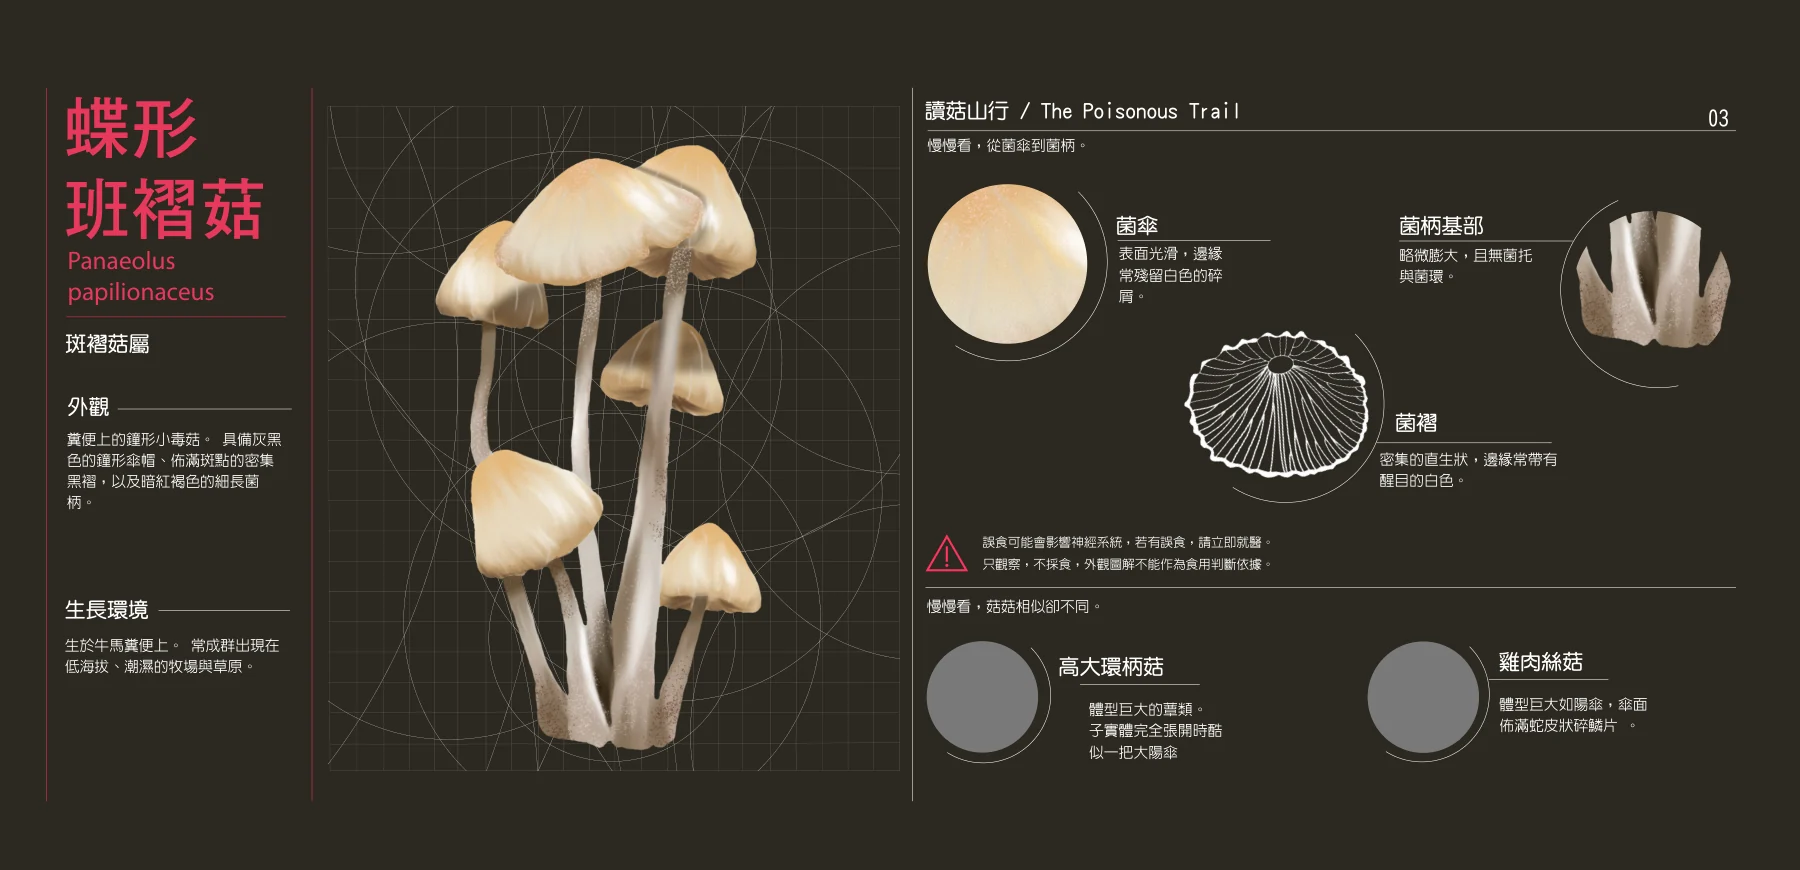
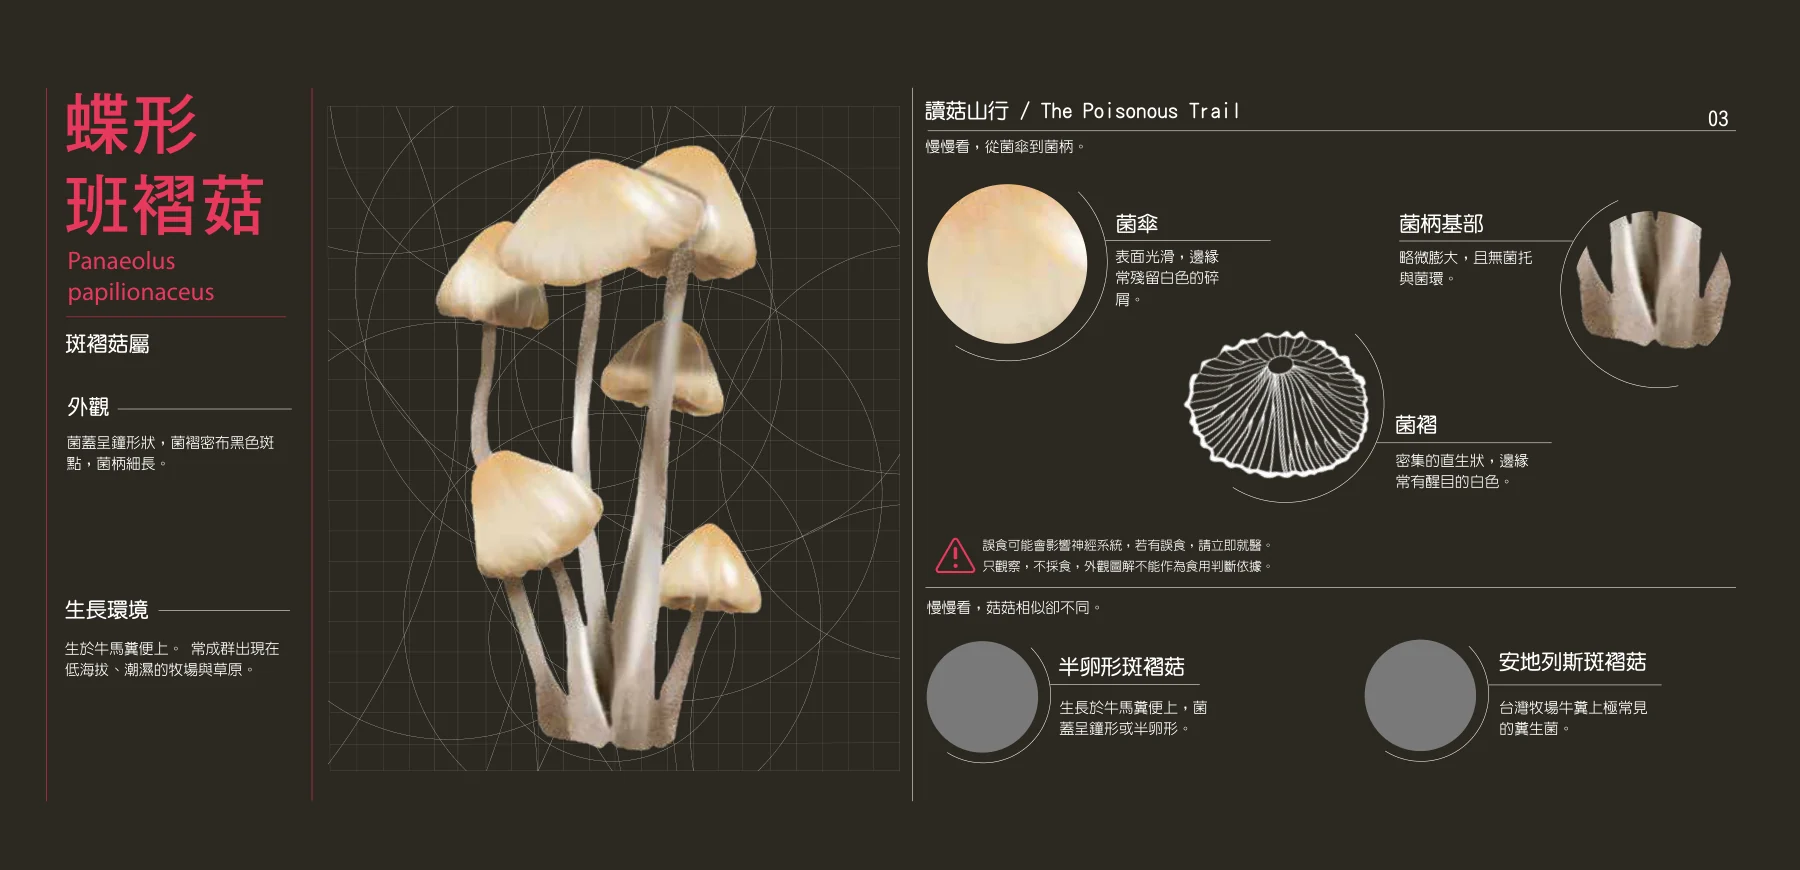
讀菇：蝶形斑褶菇書頁換新版（相似菇改半卵形斑褶菇、安地列斯斑褶菇）

diff --git a/dugu-trail/js/data.js b/dugu-trail/js/data.js
@@ -266,8 +266,8 @@ window.TRAIL = (function () {
       look: '糞便上的鐘形小毒菇。具備灰黑色的鐘形傘帽、佈滿斑點的密集黑褶，以及暗紅褐色的細長菌柄。',
       habitat: '生於牛馬糞便上，常成群出現在低海拔、潮濕的牧場與草原。',
       symptom: '可能造成幻覺、焦慮、心跳加快與判斷力下降。若有誤食，請立即就醫。',
-      book: { page: '03', parts: [['菌傘', '表面光滑，邊緣常殘留白色的碎屑。'], ['菌柄基部', '略微膨大，且無菌托與菌環。'], ['菌褶', '密集的直生狀，邊緣常帶有醒目的白色。']],
-        like: [['高大環柄菇', '體型巨大的蕈類。子實體完全張開時酷似一把大陽傘。'], ['雞肉絲菇', '體型巨大如陽傘，傘面佈滿蛇皮狀碎鱗片。']] },
+      book: { page: '03', parts: [['菌傘', '表面光滑，邊緣常殘留白色的碎屑。'], ['菌柄基部', '略微膨大，且無菌托與菌環。'], ['菌褶', '密集的直生狀，邊緣常有醒目的白色。']],
+        like: [['半卵形斑褶菇', '生長於牛馬糞便上，菌蓋呈鐘形或半卵形。'], ['安地列斯斑褶菇', '台灣牧場牛糞上極常見的糞生菌。']] },
       like: ['psilocybe', 'inocybe'] },
     inocybe: { name: '汙白絲蓋傘', sci: 'Inocybe geophylla', fam: '絲蓋傘科', tox: 4, type: '毒蕈鹼型',
       stage: 17, season: '夏–秋', color: '#efe5d6', img: 'img/mush/inocybe.webp', verified: true,

diff --git a/index.html b/index.html
@@ -208,7 +208,7 @@
 <div class="modal" id="modal" hidden><div class="md-box" role="dialog" aria-modal="true" aria-labelledby="mdName"><button class="md-x" data-close aria-label="關閉">×</button><div class="md-art" id="mdArt"></div><div class="md-txt" id="mdTxt"></div></div></div>
 <div class="lb" id="lb" hidden><figure style="margin:0"><img alt=""><p></p></figure></div>
 
-<script src="dugu-trail/js/data.js?v=13"></script>
+<script src="dugu-trail/js/data.js?v=14"></script>
 <script src="js/home-data.js?v=7"></script>
 <script src="js/common.js?v=2"></script>
 <script src="js/home.js?v=28"></script>

diff --git a/products.html b/products.html
@@ -142,7 +142,7 @@
 <div class="modal" id="modal" hidden><div class="md-box" role="dialog" aria-modal="true" aria-labelledby="mdName"><button class="md-x" data-close aria-label="關閉">×</button><div class="md-art" id="mdArt"></div><div class="md-txt" id="mdTxt"></div></div></div>
 <div class="lb" id="lb" hidden><figure style="margin:0"><img alt=""><p></p></figure></div>
 
-<script src="dugu-trail/js/data.js?v=13"></script>
+<script src="dugu-trail/js/data.js?v=14"></script>
 <script src="js/home-data.js?v=7"></script>
 <script src="js/common.js"></script>
 <script src="js/products.js"></script>

diff --git a/dugu-trail/full.html b/dugu-trail/full.html
@@ -131,7 +131,7 @@
 </div>
 
 <script>window.TRAIL_FULL = true;   /* 補上還沒有插畫的層（示意畫面） */</script>
-<script src="js/data.js?v=13"></script>
+<script src="js/data.js?v=14"></script>
 <script src="js/mush-geom.js?v=5"></script>
 <script src="js/art.js?v=2"></script>
 <script src="js/app.js?v=23"></script>

diff --git a/dugu-trail/index.html b/dugu-trail/index.html
@@ -129,7 +129,7 @@
   </div>
 </div>
 
-<script src="js/data.js?v=13"></script>
+<script src="js/data.js?v=14"></script>
 <script src="js/mush-geom.js?v=5"></script>
 <script src="js/art.js?v=2"></script>
 <script src="js/app.js?v=23"></script>
